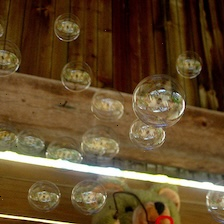
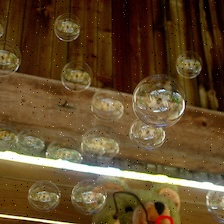
Misc: new results, 300 iterations

diff --git a/hill_climbing.py b/hill_climbing.py
@@ -379,7 +379,7 @@ def attack_one_image(item, model, csv_file, json_file, writer, IMG_OUTDIR):
             model=model,
             target_label=target_label,
             epsilon=epsilon,
-            iterations=5
+            iterations=300
         )
 
         hc_runtime = time.perf_counter() - t0
